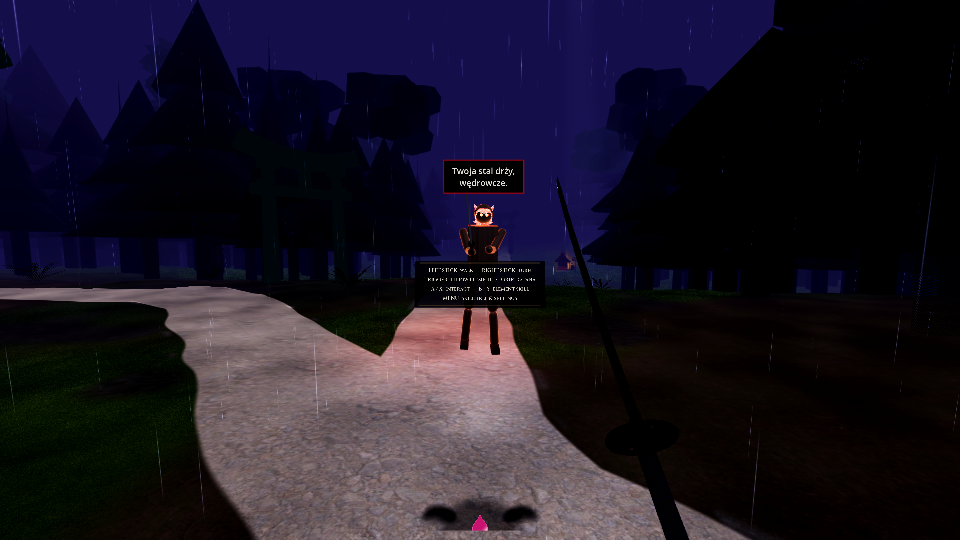
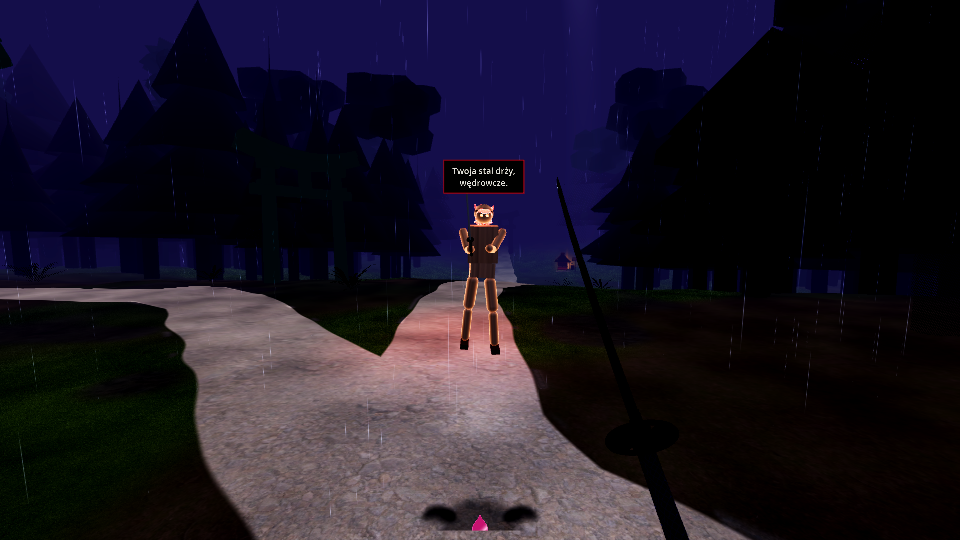
fix(n13): boss readability – ember rim/fill on his own wood only (scene light untouched), controls hint off in the shot scene (in game it is gone after 6 s, boss enters ≥60 s), scaled joint torques (k²) and blocked-ray heights for the bigger body; new after_boss_5m shot; README: retreat regression s

Changed region(s): [[0.4062, 0.3852, 0.5938, 0.6519], [0.5, 0.2963, 0.5312, 0.3259]]

diff --git a/docs/n13/README.md b/docs/n13/README.md
@@ -16,10 +16,24 @@ Decyzje (4.11, supervisor): zmieniony tylko boss i moment jego wejścia, las/św
 Zrzut z gry (run.tscn, 5 m): `after_boss_5m.png`, `after_ai_bubble_5m.png`
 (`tests/f5_katana_boss_shots.tscn -- --shots docs/n13 --tag after --distance 5`).
 
-Ocena (surowo): boss stoi w kadrze na ścieżce, maska i dymek czytelne; ciało nadal ciemne (drewniane
-bryły) i z 5 m czyta się głównie jako sylwetka, rim jest subtelny. Na zrzucie środek ciała zasłania
-plansza sterowania (overlay sceny testowej, nie wejścia). Brak zrzutu PRZED z tej samej kamery (limit czasu).
+## fix1 (review 68b826c)
 
-Testy: back_spawn_test, run_loop_test – pass. oni_boss_ai_test: 3 fail, z czego 2 (Phase 3 windup,
-HP→0) padały już przed zmianą (baseline: 5 fail); nowy fail: „retreat” – większy boss cofa się
-0,15 m zamiast >0,3 m (te same momenty przy dłuższych kończynach). Do poprawy: moment/masa ×scale.
+- **Rim/fill tylko na materiale bossa:** `rim_tint` (1,0; 0,5; 0,24), `rim_power` 1,3, `fog_rim` 1,6,
+  `fill` 2,8 (szermierz z sali: 1,6). Oświetlenie sceny i lasu bez zmian.
+- **Plansza sterowania:** w grze żyje tylko 6 s od startu runu (lub do 0,6 m ruchu), a boss wchodzi
+  najwcześniej po ~60 s, więc **w prawdziwej grze nie zasłania wejścia**. Zasłaniała tylko w scenie
+  zrzutów (run startuje tuż przed spawnem) – tam jest teraz wyłączona (`controls_hint_shown = true`).
+- **Ruch większego ciała:** momenty stawów ×k² (`scale_part_defs`), promienie `_blocked_toward` ×k.
+
+Ocena (surowo): z 5 m boss stoi na ścieżce, cały w kadrze. Żarowy rim obrysowuje ramiona, nogi
+i bark, więc sylwetka wyraźnie odcina się od lasu, a maska i dymek są czytelne. Słabe: przód torsu
+dalej jest ciemną bryłą (drewniane kloce z sali testowej), a rim w kolorze żaru wygląda trochę
+„neonowo” na krawędziach nóg. To czytelne, ale nie premium. Lepszy model ciała/zbroi to osobne zadanie.
+Brak zrzutu PRZED z tej samej kamery.
+
+Testy (fix1): back_spawn_test – pass. oni_boss_ai_test – nadal **FAIL „retreat”**: boss cofa się
+o 0,17 m w 1 s (próg >0,3 m, nie osłabiony). Log: `move_velocity` dochodzi do ~1 m/s wstecz po
+0,5 s, ale ciało nie nadąża za kotwicą. Momenty ×k² i `anchor_gain` ×k² (cofnięte) nic nie dały,
+więc przyczyna leży gdzie indziej (stopy/tarcie lub balans przy wyższym pelvisie) – do dalszej
+diagnozy. Stare faile: HP→0 (był przed N13), Phase 3 windup i „requests every 2–5 s”
+są niestabilne (przechodzą/padają między przebiegami; baseline przed N13: 5 faili).
